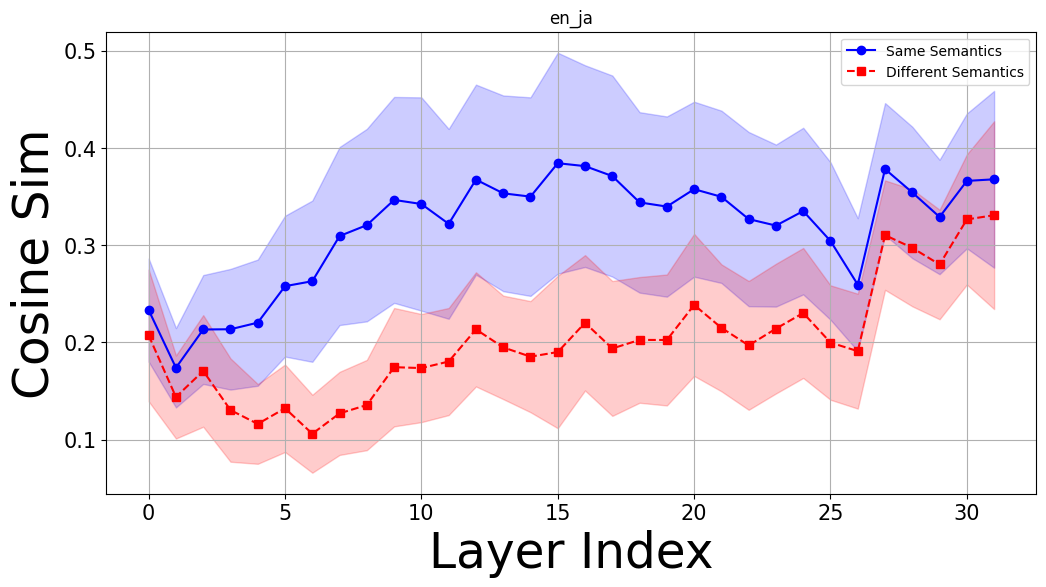
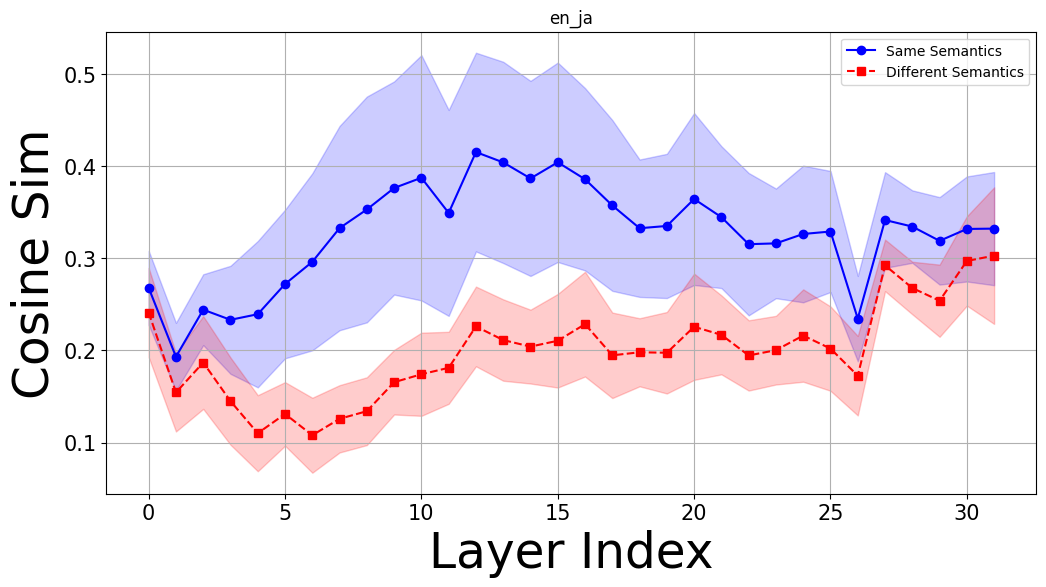
update/images

diff --git a/activated_neuron/new_neurons/transfer_neurons/mistral/take_sim_scores.py b/activated_neuron/new_neurons/transfer_neurons/mistral/take_sim_scores.py
@@ -21,7 +21,7 @@ from funcs import (
 )
 
 # visualization
-def plot_hist_llama3(dict1: defaultdict(float), dict2: defaultdict(float), L2: str, score_type: str, intervention_num: str, is_baseline=False) -> None:
+def plot_hist_llama3(dict1: defaultdict(float), dict2: defaultdict(float), L2: str, score_type: str, intervention_num: str, is_en=False, is_baseline=False) -> None:
     # convert keys and values into list
     keys = np.array(list(dict1.keys()))
     values1 = list(dict1.values())
@@ -44,10 +44,16 @@ def plot_hist_llama3(dict1: defaultdict(float), dict2: defaultdict(float), L2: s
     plt.legend()
     plt.grid(True)
 
-    if not is_baseline:
-        path = f"/home/s2410121/proj_LA/activated_neuron/new_neurons/images/transfers/sim/mistral/final/{score_type}/{L2}_n{intervention_num}.png"
-    elif is_baseline:
-        path = f"/home/s2410121/proj_LA/activated_neuron/new_neurons/images/transfers/sim/mistral/final/{score_type}/baseline/{L2}_n{intervention_num}.png"
+    if is_en:
+        if not is_baseline:
+            path = f"/home/s2410121/proj_LA/activated_neuron/new_neurons/images/transfers/sim/mistral/final/{score_type}/en/{L2}_n{intervention_num}.png"
+        elif is_baseline:
+            path = f"/home/s2410121/proj_LA/activated_neuron/new_neurons/images/transfers/sim/mistral/final/{score_type}/en/baseline/{L2}_n{intervention_num}.png"
+    elif not is_en:
+        if not is_baseline:
+            path = f"/home/s2410121/proj_LA/activated_neuron/new_neurons/images/transfers/sim/mistral/final/{score_type}/{L2}_n{intervention_num}.png"
+        elif is_baseline:
+            path = f"/home/s2410121/proj_LA/activated_neuron/new_neurons/images/transfers/sim/mistral/final/{score_type}/baseline/{L2}_n{intervention_num}.png"
     plt.savefig(
         path,
         bbox_inches="tight"
@@ -66,14 +72,16 @@ if __name__ == "__main__":
     """ parameters """
     langs = ["ja", "nl", "it", "ko"]
     n_list = [100, 1000, 3000, 5000, 8000, 10000, 15000, 20000, 30000]
-    score_types = ["L2_dis", "cos_sim"]
+    n_list = [100, 1000, 3000, 5000, 8000, 10000]
+    score_types = ["cos_sim", "L2_dis"]
+    is_en = True
 
     for L2 in langs:
         """ tatoeba translation corpus """
         dataset = load_dataset("tatoeba", lang1=L1, lang2=L2, split="train")
         # select first 2000 sentences.
         total_sentence_num = 2000 if L2 == "ko" else 5000
-        num_sentences = 2000
+        num_sentences = 20
         dataset = dataset.select(range(total_sentence_num))
         tatoeba_data = []
         for sentence_idx, item in enumerate(dataset):
@@ -97,9 +105,9 @@ if __name__ == "__main__":
                 random_data.append((dataset["translation"][num_sentences+sentence_idx][L1], item["translation"][L2]))
 
         for score_type in score_types:
-            save_path_sorted_neurons = f"/home/s2410121/proj_LA/activated_neuron/new_neurons/pickles/transfer_neurons/mistral/final_scores/{score_type}/{L2}_revised.pkl"
+            save_path_sorted_neurons = f"/home/s2410121/proj_LA/activated_neuron/new_neurons/pickles/transfer_neurons/mistral/final_scores/{score_type}/{L2}_en.pkl"
             sorted_neurons = unfreeze_pickle(save_path_sorted_neurons)
-            save_path_scores = f"/home/s2410121/proj_LA/activated_neuron/new_neurons/pickles/transfer_neurons/mistral/final_scores/{score_type}/{L2}_score_dict_revised.pkl"
+            save_path_scores = f"/home/s2410121/proj_LA/activated_neuron/new_neurons/pickles/transfer_neurons/mistral/final_scores/{score_type}/{L2}_score_dict_en.pkl"
             scores_dict = unfreeze_pickle(save_path_scores)
             print(f'================ {L2}_{score_type} ================')
             for neuron in sorted_neurons[:10]:
@@ -111,8 +119,9 @@ if __name__ == "__main__":
                 """ n: intervention_num """
                 intervention_num = n
                 sorted_neurons_AP_main = sorted_neurons[:n]
-                sorted_neurons_AP_baseline = random.sample(sorted_neurons_AP_main[intervention_num+1:], len(sorted_neurons_AP_main[intervention_num+1:]))
-                sorted_neurons_AP_baseline = sorted_neurons_AP_baseline[:intervention_num]
+                # random.seed(42)
+                # sorted_neurons_AP_baseline = random.sample(sorted_neurons_AP_main[intervention_num+1:], len(sorted_neurons_AP_main[intervention_num+1:]))
+                # sorted_neurons_AP_baseline = sorted_neurons_AP_baseline[:intervention_num]
 
                 """ deactivate shared_neurons(same semantics expert neurons) """
                 similarities_same_semantics = take_similarities_with_edit_activation(model, tokenizer, device, sorted_neurons_AP_main, tatoeba_data)
@@ -122,16 +131,16 @@ if __name__ == "__main__":
                 for layer_idx in range(32): # ３２ layers
                     final_results_same_semantics[layer_idx] = np.array(similarities_same_semantics[layer_idx]).mean()
                     final_results_non_same_semantics[layer_idx] = np.array(similarities_non_same_semantics[layer_idx]).mean()
-                plot_hist_llama3(final_results_same_semantics, final_results_non_same_semantics, L2, score_type, intervention_num)
+                plot_hist_llama3(final_results_same_semantics, final_results_non_same_semantics, L2, score_type, intervention_num, is_en)
 
                 """ deactivate shared_neurons(same semantics(including non_same_semantics)) """
-                similarities_same_semantics = take_similarities_with_edit_activation(model, tokenizer, device, sorted_neurons_AP_baseline, tatoeba_data)
-                similarities_non_same_semantics = take_similarities_with_edit_activation(model, tokenizer, device, sorted_neurons_AP_baseline, random_data)
-                final_results_same_semantics = defaultdict(float)
-                final_results_non_same_semantics = defaultdict(float)
-                for layer_idx in range(32): # ３２ layers
-                    final_results_same_semantics[layer_idx] = np.array(similarities_same_semantics[layer_idx]).mean()
-                    final_results_non_same_semantics[layer_idx] = np.array(similarities_non_same_semantics[layer_idx]).mean()
-                plot_hist_llama3(final_results_same_semantics, final_results_non_same_semantics, L2, score_type, intervention_num, True)
+                # similarities_same_semantics = take_similarities_with_edit_activation(model, tokenizer, device, sorted_neurons_AP_baseline, tatoeba_data)
+                # similarities_non_same_semantics = take_similarities_with_edit_activation(model, tokenizer, device, sorted_neurons_AP_baseline, random_data)
+                # final_results_same_semantics = defaultdict(float)
+                # final_results_non_same_semantics = defaultdict(float)
+                # for layer_idx in range(32): # ３２ layers
+                #     final_results_same_semantics[layer_idx] = np.array(similarities_same_semantics[layer_idx]).mean()
+                #     final_results_non_same_semantics[layer_idx] = np.array(similarities_non_same_semantics[layer_idx]).mean()
+                # plot_hist_llama3(final_results_same_semantics, final_results_non_same_semantics, L2, score_type, intervention_num, is_en, True)
 
                 print(f"intervention_num: {n} <- completed.")

diff --git a/activated_neuron/new_neurons/transfer_neurons/llama3/take_sim_scores.py b/activated_neuron/new_neurons/transfer_neurons/llama3/take_sim_scores.py
@@ -21,7 +21,7 @@ from funcs import (
 )
 
 # visualization
-def plot_hist_llama3(dict1: defaultdict(float), dict2: defaultdict(float), L2: str, score_type: str, intervention_num: str, is_baseline=False) -> None:
+def plot_hist_llama3(dict1: defaultdict(float), dict2: defaultdict(float), L2: str, score_type: str, intervention_num: str, is_en=False, is_baseline=False) -> None:
     # convert keys and values into list
     keys = np.array(list(dict1.keys()))
     values1 = list(dict1.values())
@@ -43,10 +43,16 @@ def plot_hist_llama3(dict1: defaultdict(float), dict2: defaultdict(float), L2: s
     plt.tick_params(axis='y', labelsize=15)
     plt.legend()
     plt.grid(True)
-    if not is_baseline:
-        path = f"/home/s2410121/proj_LA/activated_neuron/new_neurons/images/transfers/sim/llama3/final/{score_type}/{L2}_n{intervention_num}.png"
-    elif is_baseline:
-        path = f"/home/s2410121/proj_LA/activated_neuron/new_neurons/images/transfers/sim/llama3/final/{score_type}/baseline/{L2}_n{intervention_num}.png"
+    if is_en:
+        if not is_baseline:
+            path = f"/home/s2410121/proj_LA/activated_neuron/new_neurons/images/transfers/sim/llama3/final/{score_type}/en/{L2}_n{intervention_num}.png"
+        elif is_baseline:
+            path = f"/home/s2410121/proj_LA/activated_neuron/new_neurons/images/transfers/sim/llama3/final/{score_type}/en/baseline/{L2}_n{intervention_num}.png"
+    elif not is_en:
+        if not is_baseline:
+            path = f"/home/s2410121/proj_LA/activated_neuron/new_neurons/images/transfers/sim/llama3/final/{score_type}/{L2}_n{intervention_num}.png"
+        elif is_baseline:
+            path = f"/home/s2410121/proj_LA/activated_neuron/new_neurons/images/transfers/sim/llama3/final/{score_type}/baseline/{L2}_n{intervention_num}.png"
     plt.savefig(
         path,
         bbox_inches="tight"
@@ -64,14 +70,16 @@ if __name__ == "__main__":
     """ parameters """
     langs = ["ja", "nl", "it", "ko"]
     n_list = [100, 1000, 3000, 5000, 8000, 10000, 15000, 20000, 30000] # patterns of intervention_num
-    score_types = ["L2_dis", "cos_sim"]
+    n_list = [100, 1000, 3000, 5000, 8000, 10000]
+    score_types = ["cos_sim", "L2_dis"]
+    is_en = True
 
     for L2 in langs:
         """ tatoeba translation corpus """
         dataset = load_dataset("tatoeba", lang1=L1, lang2=L2, split="train")
         # select first 2000 sentences.
         total_sentence_num = 2000 if L2 == "ko" else 5000
-        num_sentences = 20
+        num_sentences = 2000
         dataset = dataset.select(range(total_sentence_num))
         tatoeba_data = []
         for sentence_idx, item in enumerate(dataset):
@@ -93,18 +101,18 @@ if __name__ == "__main__":
                 random_data.append((dataset["translation"][num_sentences+sentence_idx][L1], item["translation"][L2]))
 
         for score_type in score_types:
-            save_path_sorted_neurons = f"/home/s2410121/proj_LA/activated_neuron/new_neurons/pickles/transfer_neurons/llama3/final_scores/{score_type}/{L2}_revised.pkl"
+            save_path_sorted_neurons = f"/home/s2410121/proj_LA/activated_neuron/new_neurons/pickles/transfer_neurons/llama3/final_scores/{score_type}/{L2}_en.pkl"
             sorted_neurons = unfreeze_pickle(save_path_sorted_neurons)
-            save_path_score_dict = f"/home/s2410121/proj_LA/activated_neuron/new_neurons/pickles/transfer_neurons/llama3/final_scores/{score_type}/{L2}_score_dict_revised.pkl"
+            save_path_score_dict = f"/home/s2410121/proj_LA/activated_neuron/new_neurons/pickles/transfer_neurons/llama3/final_scores/{score_type}/{L2}_score_dict_en.pkl"
             score_dict = unfreeze_pickle(save_path_score_dict)
             
             for n in n_list:
                 """ n: intervention_num """
                 intervention_num = n
                 sorted_neurons_AP_main = sorted_neurons[:n]
-                random.seed(42)
-                sorted_neurons_AP_baseline = random.sample(sorted_neurons_AP_main[intervention_num+1:], len(sorted_neurons_AP_main[intervention_num+1:]))
-                sorted_neurons_AP_baseline = sorted_neurons_AP_baseline[:intervention_num]
+                # random.seed(42)
+                # sorted_neurons_AP_baseline = random.sample(sorted_neurons_AP_main[intervention_num+1:], len(sorted_neurons_AP_main[intervention_num+1:]))
+                # sorted_neurons_AP_baseline = sorted_neurons_AP_baseline[:intervention_num]
 
                 """ deactivate shared_neurons(same semantics expert neurons) """
                 similarities_same_semantics = take_similarities_with_edit_activation(model, tokenizer, device, sorted_neurons_AP_main, tatoeba_data)
@@ -114,16 +122,16 @@ if __name__ == "__main__":
                 for layer_idx in range(32): # ３２ layers
                     final_results_same_semantics[layer_idx] = np.array(similarities_same_semantics[layer_idx]).mean()
                     final_results_non_same_semantics[layer_idx] = np.array(similarities_non_same_semantics[layer_idx]).mean()
-                plot_hist_llama3(final_results_same_semantics, final_results_non_same_semantics, L2, score_type, intervention_num)
+                plot_hist_llama3(final_results_same_semantics, final_results_non_same_semantics, L2, score_type, intervention_num, is_en)
 
                 """ deactivate shared_neurons(same semantics(including non_same_semantics)) """
-                similarities_same_semantics = take_similarities_with_edit_activation(model, tokenizer, device, sorted_neurons_AP_baseline, tatoeba_data)
-                similarities_non_same_semantics = take_similarities_with_edit_activation(model, tokenizer, device, sorted_neurons_AP_baseline, random_data)
-                final_results_same_semantics = defaultdict(float)
-                final_results_non_same_semantics = defaultdict(float)
-                for layer_idx in range(32): # ３２ layers
-                    final_results_same_semantics[layer_idx] = np.array(similarities_same_semantics[layer_idx]).mean()
-                    final_results_non_same_semantics[layer_idx] = np.array(similarities_non_same_semantics[layer_idx]).mean()
-                plot_hist_llama3(final_results_same_semantics, final_results_non_same_semantics, L2, score_type, intervention_num, True)
+                # similarities_same_semantics = take_similarities_with_edit_activation(model, tokenizer, device, sorted_neurons_AP_baseline, tatoeba_data)
+                # similarities_non_same_semantics = take_similarities_with_edit_activation(model, tokenizer, device, sorted_neurons_AP_baseline, random_data)
+                # final_results_same_semantics = defaultdict(float)
+                # final_results_non_same_semantics = defaultdict(float)
+                # for layer_idx in range(32): # ３２ layers
+                #     final_results_same_semantics[layer_idx] = np.array(similarities_same_semantics[layer_idx]).mean()
+                #     final_results_non_same_semantics[layer_idx] = np.array(similarities_non_same_semantics[layer_idx]).mean()
+                # plot_hist_llama3(final_results_same_semantics, final_results_non_same_semantics, L2, score_type, intervention_num, is_en, True)
 
                 print(f"intervention_num: {n} <- completed.")

diff --git a/activated_neuron/new_neurons/intervention/hidden_state_sim/AUC/line_plot_experts.py b/activated_neuron/new_neurons/intervention/hidden_state_sim/AUC/line_plot_experts.py
@@ -21,7 +21,7 @@ from expertise_funcs import (
 
 
 """ parameters setting """
-activation_type = "abs"
+# activation_type = "abs"
 activation_type = "product"
 norm_type = "no"
 top_n = 1000
@@ -29,7 +29,7 @@ top_n = 1000
 # norm_type = "sigmoid"
 # L2 = "ja"
 L2_list = ["ja", "nl", "ko", "it"]
-L2_list = ["ja"]
+# L2_list = ["ja"]
 
 # データを格納するリスト
 data = []
@@ -38,20 +38,20 @@ for L2 in L2_list:
     # LLaMA-3 unfreezing
     sorted_neurons_path = f"/home/s2410121/proj_LA/activated_neuron/new_neurons/pickles/AUC/act_{activation_type}/ap_scores/{norm_type}_norm/sorted_neurons_{L2}_revised.pkl"
     llama3_path = f"/home/s2410121/proj_LA/activated_neuron/new_neurons/pickles/AUC/act_{activation_type}/ap_scores/{norm_type}_norm/ap_scores_{L2}_revised.pkl"
-    sorted_neurons_llama3 = unfreeze_pickle(sorted_neurons_path)
+    sorted_neurons_llama3 = unfreeze_pickle(sorted_neurons_path)[:top_n]
     ap_scores_llama3 = unfreeze_pickle(llama3_path)
 
-    # GPT-2 unfreezing
-    sorted_neurons_path = f"/home/s2410121/proj_LA/activated_neuron/new_neurons/gpt2/pickles/AUC/act_{activation_type}/ap_scores/{norm_type}_norm/sorted_neurons_{L2}.pkl"
-    gpt2_path = f"/home/s2410121/proj_LA/activated_neuron/new_neurons/gpt2/pickles/AUC/act_{activation_type}/ap_scores/{norm_type}_norm/ap_scores_{L2}.pkl"
-    sorted_neurons_gpt2 = unfreeze_pickle(sorted_neurons_path)
-    ap_scores_gpt2 = unfreeze_pickle(gpt2_path)
+    # # GPT-2 unfreezing
+    # sorted_neurons_path = f"/home/s2410121/proj_LA/activated_neuron/new_neurons/gpt2/pickles/AUC/act_{activation_type}/ap_scores/{norm_type}_norm/sorted_neurons_{L2}.pkl"
+    # gpt2_path = f"/home/s2410121/proj_LA/activated_neuron/new_neurons/gpt2/pickles/AUC/act_{activation_type}/ap_scores/{norm_type}_norm/ap_scores_{L2}.pkl"
+    # sorted_neurons_gpt2 = unfreeze_pickle(sorted_neurons_path)
+    # ap_scores_gpt2 = unfreeze_pickle(gpt2_path)
 
     # makind dataframe for visualization
-    for i in range(len(sorted_neurons_llama3[:top_n])):
+    for i in range(len(sorted_neurons_llama3)):
         data.append({"Model": "LLaMA-3", "Language": L2, "Neuron": i, "AP_Score": ap_scores_llama3[sorted_neurons_llama3[i]]})
-    for i in range(len(sorted_neurons_gpt2[:top_n])):
-        data.append({"Model": "GPT-2", "Language": L2, "Neuron": i, "AP_Score": ap_scores_gpt2[sorted_neurons_gpt2[i]]})
+    # for i in range(len(sorted_neurons_gpt2[:top_n])):
+    #     data.append({"Model": "GPT-2", "Language": L2, "Neuron": i, "AP_Score": ap_scores_gpt2[sorted_neurons_gpt2[i]]})
 
 # convert pandas DataFrame
 df = pd.DataFrame(data)

diff --git a/activated_neuron/new_neurons/transfer_neurons/llama3/calc_corr_ratio.py b/activated_neuron/new_neurons/transfer_neurons/llama3/calc_corr_ratio.py
@@ -1,6 +1,7 @@
 import os
 import sys
 sys.path.append(os.path.abspath(os.path.join(os.path.dirname(__file__), "..")))
+import copy
 import pickle
 from collections import defaultdict
 
@@ -17,6 +18,8 @@ from funcs import (
 )
 
 langs = ['ja', 'nl', 'ko', 'it']
+langs = ['nl', 'it']
+langs = ['ja', 'ko']
 model = 'llama3'
 score_types = ['cos_sim', 'L2_dis']
 
@@ -34,6 +37,10 @@ for L2 in langs:
         save_path_labels = f"/home/s2410121/proj_LA/activated_neuron/new_neurons/pickles/transfer_neurons/llama3/labels/{L2}_last_token.pkl"
         activations_arr = unfreeze_np_arrays(save_path_activations)
         labels_list = np.array(unfreeze_pickle(save_path_labels))
+        l1 = [ 1 for _ in range(1000)]
+        l2 = [ 0 for _ in range(1000)]
+        labels_list = l2 + l1 + copy.deepcopy(l2) + copy.deepcopy(l1) + copy.deepcopy(l1) # nl, it
+        labels_list = l1 + copy.deepcopy(l2) + copy.deepcopy(l1) + copy.deepcopy(l2) + copy.deepcopy(l2) # ja, ko
         # top score neurons
         save_path_sorted_neurons = f"/home/s2410121/proj_LA/activated_neuron/new_neurons/pickles/transfer_neurons/llama3/final_scores/{score_type}/{L2}_revised.pkl"
         # save_path_sorted_neurons = '/home/s2410121/proj_LA/activated_neuron/new_neurons/pickles/transfer_neurons/ap_lang_specific/sorted_neurons_ja_last_token.pkl'

diff --git a/activated_neuron/new_neurons/transfer_neurons/mistral/calc_corr_ratio.py b/activated_neuron/new_neurons/transfer_neurons/mistral/calc_corr_ratio.py
@@ -1,6 +1,7 @@
 import os
 import sys
 sys.path.append(os.path.abspath(os.path.join(os.path.dirname(__file__), "..")))
+import copy
 import pickle
 from collections import defaultdict
 
@@ -17,6 +18,7 @@ from funcs import (
 )
 
 langs = ['ja', 'nl', 'ko', 'it']
+langs = ['nl', 'it']
 model = 'mistral'
 score_types = ['cos_sim', 'L2_dis']
 
@@ -37,6 +39,10 @@ for L2 in langs:
         # top score neurons
         save_path_sorted_neurons = f"/home/s2410121/proj_LA/activated_neuron/new_neurons/pickles/transfer_neurons/llama3/final_scores/{score_type}/{L2}_revised.pkl"
         sorted_neurons = unfreeze_pickle(save_path_sorted_neurons)
+        # l1 = [ 1 for _ in range(1000)]
+        # l2 = [ 0 for _ in range(1000)]
+        # labels_list = l2 + l1 + copy.deepcopy(l2) + copy.deepcopy(l1) + copy.deepcopy(l1) # nl, it
+        # labels_list = l1 + copy.deepcopy(l2) + copy.deepcopy(l1) + copy.deepcopy(l2) + copy.deepcopy(l2) # ja, ko
 
         top_n = 1000
         corr_ratios = defaultdict(float)

diff --git a/activated_neuron/new_neurons/transfer_neurons/act_patterns/funcs.py b/activated_neuron/new_neurons/transfer_neurons/act_patterns/funcs.py
@@ -170,7 +170,7 @@ def activation_patterns_lineplot(act_patterns, act_patterns_baseline, L2, interv
     elif intervention == "yes":
         save_path = f"/home/s2410121/proj_LA/activated_neuron/new_neurons/images/transfers/act_patterns/{model_type}/intervention/{L2}_n{intervention_num}.png"
     elif intervention == "baseline":
-        save_path = f"/home/s2410121/proj_LA/activated_neuron/new_neurons/images/transfers/act_patterns/{model_type}intervention_baseline/{L2}_n{intervention_num}.png"
+        save_path = f"/home/s2410121/proj_LA/activated_neuron/new_neurons/images/transfers/act_patterns/{model_type}/intervention_baseline/{L2}_n{intervention_num}.png"
     
     plt.savefig(
         save_path,
